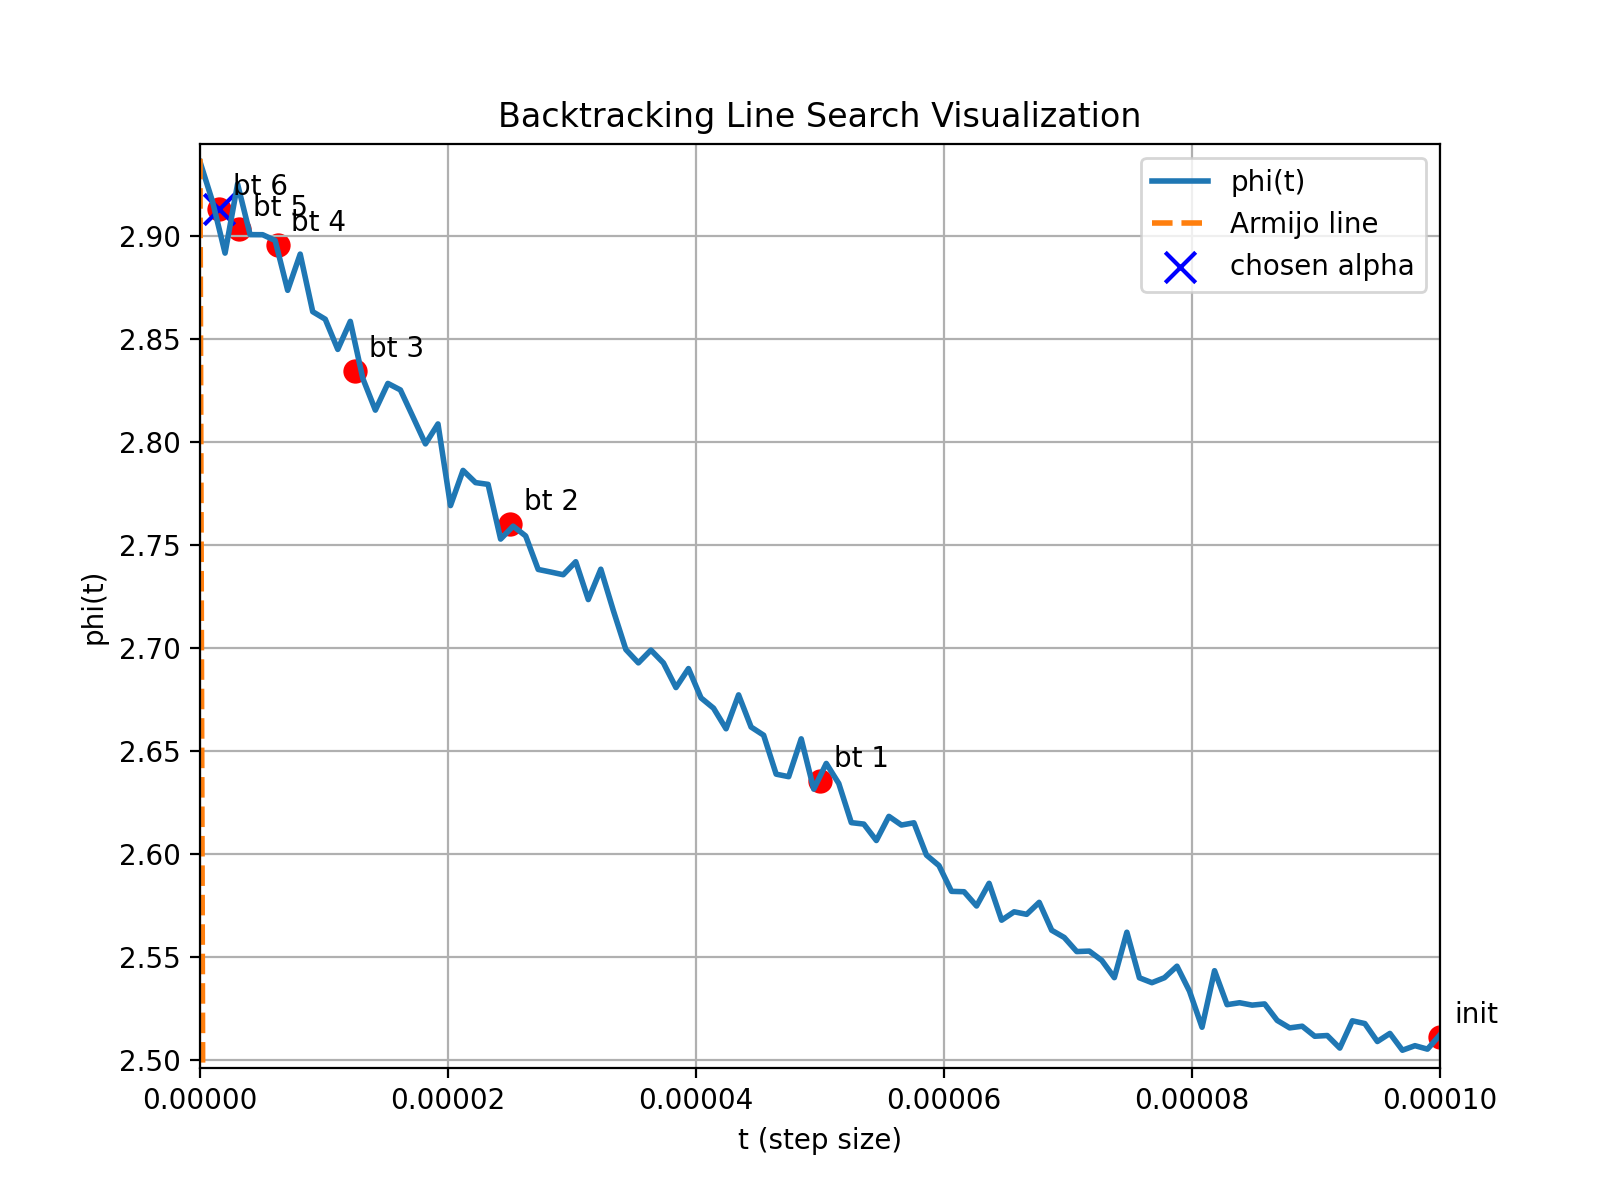
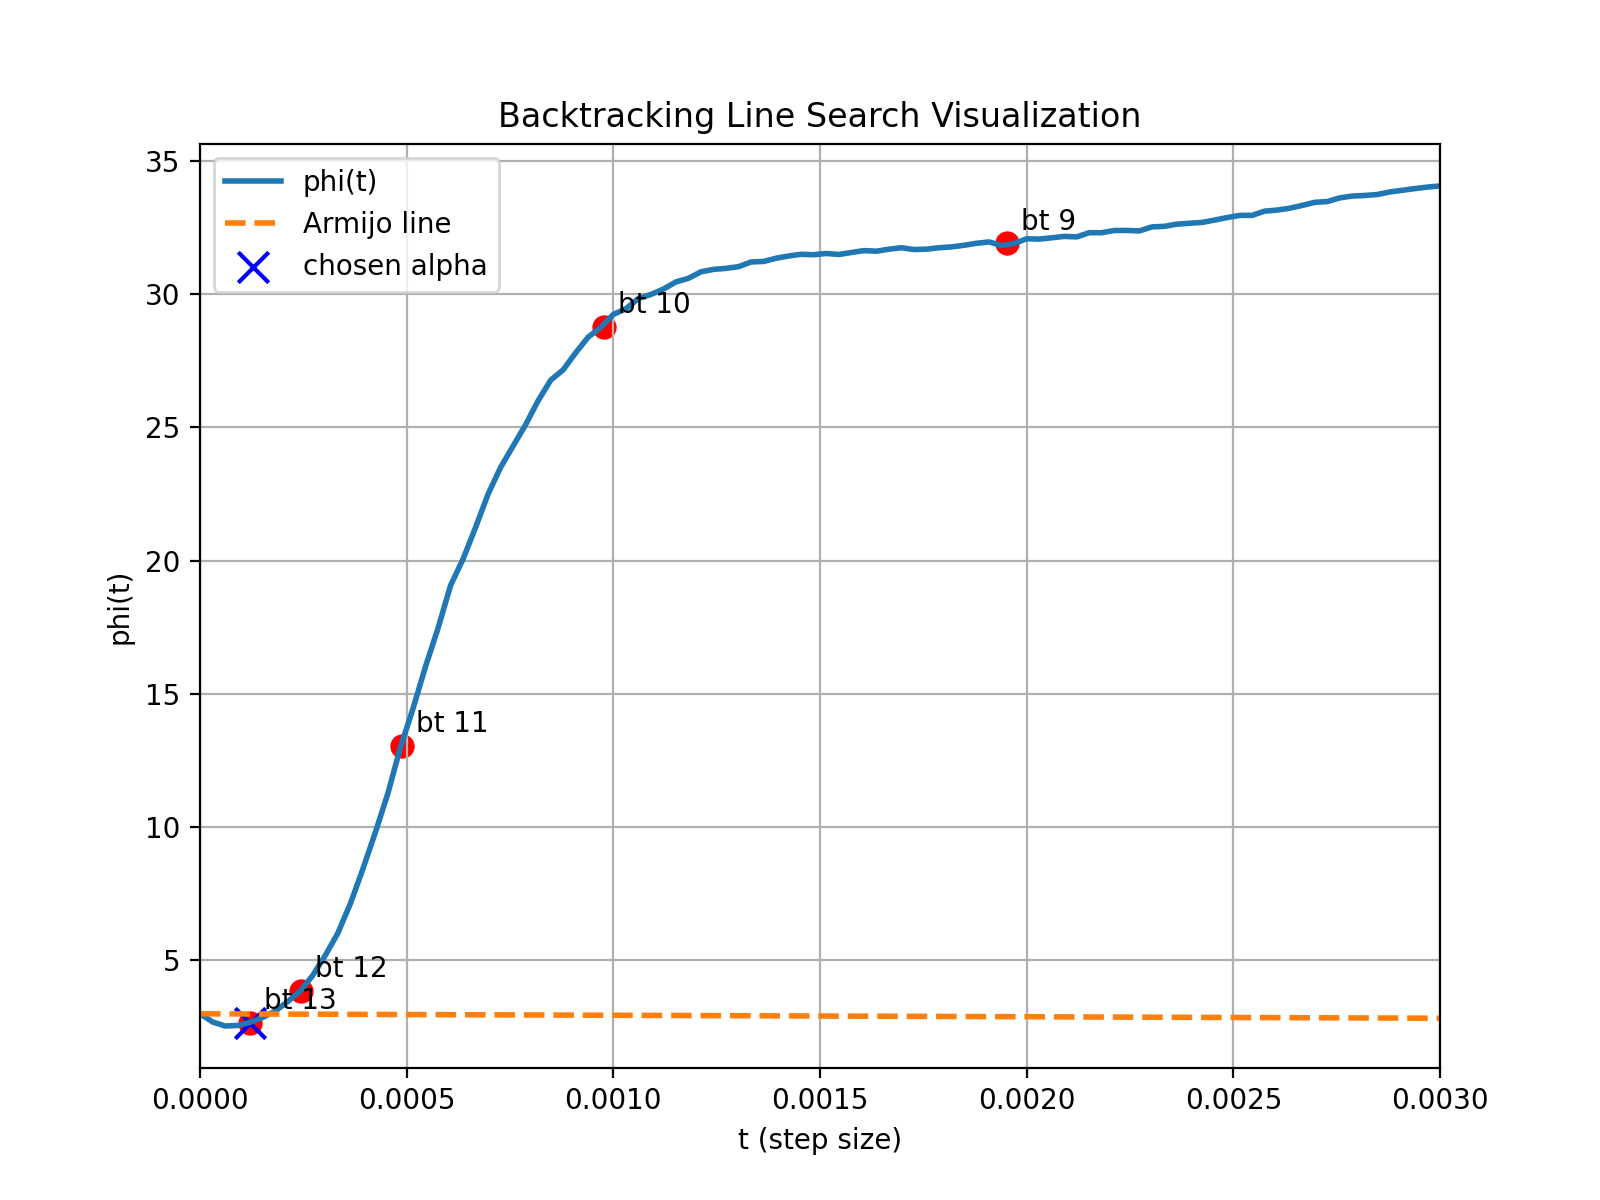
gradient clip added

diff --git a/lr_sched.py b/lr_sched.py
@@ -146,6 +146,7 @@ class LineSearchScheduler():
                 m_hat = m_new / (1 - beta1 ** t)
                 v_hat = v_new / (1 - beta2 ** t)
 
+
                 return -m_hat / (v_hat.sqrt() + eps) 
             else:
                     # gf = g.flatten()
@@ -362,21 +363,84 @@ class LineSearchScheduler():
                 param_group['lr'] = lr 
             return
 
-
         self.optimizer.zero_grad(set_to_none=True)
+
         loss = closure(require_grad=True)
+
         self.rule = self.get_potential_update_direction()
 
         inner = 0.0
+
+        # ===== 统计量 =====
+        grad_sq = 0.0
+        dir_sq = 0.0
+        param_sq = 0.0
+        dot_gd = 0.0
+        dot_gp = 0.0
+
+        max_grad = 0.0
+        max_dir = 0.0
+
         with torch.no_grad():
             for group in self.optimizer.param_groups:
-                    wd = group.get("weight_decay", 0.0)
-                    for p in group["params"]:
-                        if p.grad is None:
-                            continue     
-                        inner += torch.sum(p.grad * self.rule(p))
-                        inner -= wd * torch.sum(p.grad * p)
-        phi0, derphi0 = loss, inner.detach()
+                wd = group.get("weight_decay", 0.0)
+
+                for p in group["params"]:
+                    if p.grad is None:
+                        continue
+
+                    g = p.grad
+                    d = self.rule(p)
+
+                    # ===== norm 统计 =====
+                    grad_sq += torch.sum(g * g).item()
+                    dir_sq += torch.sum(d * d).item()
+                    param_sq += torch.sum(p * p).item()
+
+                    # ===== dot product =====
+                    gd = torch.sum(g * d).item()
+                    gp = torch.sum(g * p).item()
+
+                    dot_gd += gd
+                    dot_gp += gp
+
+                    # ===== max element =====
+                    max_grad = max(max_grad, g.abs().max().item())
+                    max_dir = max(max_dir, d.abs().max().item())
+
+        # ===== 最终统计 =====
+        grad_norm = grad_sq ** 0.5
+        dir_norm = dir_sq ** 0.5
+        param_norm = param_sq ** 0.5
+
+        # cosine 相似度
+        cos_gd = dot_gd / (grad_norm * dir_norm + 1e-12)
+
+        # 原始 derphi0（含 weight decay）
+        inner = dot_gd - wd * dot_gp
+
+        phi0, derphi0 = loss, inner
+
+        # ===== 打印 =====
+        print("\n========== Line Search Debug ==========")
+        print(f"loss (phi0): {phi0}")
+        print(f"derphi0: {derphi0}")
+
+        print("\n--- Norms ---")
+        print(f"grad_norm: {grad_norm:.6f}")
+        print(f"dir_norm:  {dir_norm:.6f}")
+        print(f"param_norm:{param_norm:.6f}")
+
+        print("\n--- Dot Products ---")
+        print(f"g·d: {dot_gd:.6f}")
+        print(f"g·p: {dot_gp:.6f}")
+        print(f"cos(g,d): {cos_gd:.6f}")
+
+        print("\n--- Max Values ---")
+        print(f"max|grad|: {max_grad:.6f}")
+        print(f"max|dir|:  {max_dir:.6f}")
+
+        print("======================================\n")
         # loss_sum = 0
 
         # for _ in range(self.K):
@@ -457,7 +521,7 @@ class LineSearchScheduler():
         # print(f"start searching with alpha = {alpha0}, the prev_alpha is {self.prev_alpha}")
 
         if step <= warmup_length:
-            alpha0 = 1e-4
+            alpha0 = 1
             num_search = self.num_search
         else:
             num_search = 1
@@ -553,10 +617,10 @@ def line_search_armijo(f, derphi0, phi0, args=(), c1=1e-4, alpha0=1, num_search=
             # alpha, phi1 = search_bisection_ddp_visual(phi, phi0, derphi0, c1=c1,
             #                                   old_alpha=alpha0, shrink=factor, grow=1/factor, amax=1, amin=1e-6, num_search=num_search, log_dir=log_dir, global_step=step)
     else:
-            # alpha, phi1 = search_bisection(phi, phi0, derphi0, c1=c1,
-            #                                 old_alpha=alpha0, grow=1/factor, shrink=factor, amax=1, amin=1e-6, num_search=num_search)
-            alpha, phi1 = search_bisection_visual(phi, phi0, derphi0, c1=c1,
-                                                          old_alpha=alpha0, shrink=factor, grow=1/factor, amax=1, amin=1e-6, num_search=num_search, log_dir=log_dir, global_step=step)
+            alpha, phi1 = search_bisection(phi, phi0, derphi0, c1=c1,
+                                            old_alpha=alpha0, grow=1/factor, shrink=factor, amax=1, amin=1e-6, num_search=num_search)
+            # alpha, phi1 = search_bisection_visual(phi, phi0, derphi0, c1=c1,
+            #                                               old_alpha=alpha0, shrink=factor, grow=1/factor, amax=1, amin=1e-6, num_search=num_search, log_dir=log_dir, global_step=step)
     
     
     # if search_mode == "backtrack":
@@ -903,7 +967,7 @@ def search_bisection_ddp_visual(phi, phi0, derphi0, c1,
 def search_bisection_visual(phi, phi0, derphi0, c1,
                      old_alpha, grow=2.0, shrink=0.5,
                      amax=1, amin=1e-6, num_search=10,
-                    t_min=0.0, t_max=1e-4, num_points=100, log_dir=None, global_step=0):
+                    t_min=0.0, t_max=3e-3, num_points=100, log_dir=None, global_step=0):
     """Non-DDP visual version of bisection/backtracking search.
 
     Mirrors `search_bisection_ddp_visual` but without torch.distributed calls.

diff --git a/finetune_gpt_2_GSM_linesearch.py b/finetune_gpt_2_GSM_linesearch.py
@@ -17,7 +17,7 @@ from torch.optim import AdamW
 
 from datasets import load_dataset
 from transformers import AutoTokenizer, AutoModelForCausalLM, get_cosine_schedule_with_warmup
-from lr_sched_smooth import LineSearchScheduler
+from lr_sched import LineSearchScheduler
 
 def parse_args():
     p = argparse.ArgumentParser()
@@ -75,19 +75,17 @@ def collate_fn(batch, pad_token_id):
     return {'input_ids': input_ids, 'attention_mask': attention_mask, 'labels': labels}
 
 
-def evaluate(model, dataloader, device, amp=False):
+def evaluate(model, dataloader, device):
     model.eval()
     total_loss = 0.0
     total_tokens = 0
-    ctx = torch.cuda.amp.autocast if amp else nullcontext
     with torch.no_grad():
         for batch in dataloader:
             input_ids = batch['input_ids'].to(device)
             attention_mask = batch['attention_mask'].to(device)
             labels = batch['labels'].to(device)
-            with ctx():
-                outputs = model(input_ids=input_ids, attention_mask=attention_mask, labels=labels)
-                loss = outputs.loss
+            outputs = model(input_ids=input_ids, attention_mask=attention_mask, labels=labels)
+            loss = outputs.loss
             bsz = input_ids.size(0)
             total_loss += loss.item() * bsz
             total_tokens += bsz
@@ -95,7 +93,7 @@ def evaluate(model, dataloader, device, amp=False):
     return total_loss / max(1, total_tokens)
 
 
-from contextlib import nullcontext
+
 
 
 
@@ -146,7 +144,8 @@ def main():
 
     num_update_steps_per_epoch = math.ceil(len(train_loader) / args.gradient_accumulation_steps)
     max_train_steps = args.max_iters
-    num_warmup_steps = int(0.03 * max_train_steps)
+    # num_warmup_steps = int(0.03 * max_train_steps)
+    num_warmup_steps = 1000
     scheduler = LineSearchScheduler(optimizer=optimizer, 
                                 model_paras=model.parameters(), 
                                 num_search=16, start_lr=0, 
@@ -154,7 +153,7 @@ def main():
                                 injection=True, 
                                 search_mode="bisection", 
                                 warmup_length=num_warmup_steps)
-    linesearch_interval = 100
+    linesearch_interval = 1000
     accum_steps = 32
     c1 = 0.03
     ls_iter = iter(ls_train_loader)
@@ -165,7 +164,8 @@ def main():
 
     # training state
     global_step = 0
-    scaler = torch.cuda.amp.GradScaler()
+    # AMP removed: use standard FP training
+    scaler = None
     model.train()
     line_search_closure = None
 
@@ -183,9 +183,9 @@ def main():
         labels = batch['labels'].to(device)
 
         # ===== 2. line search =====
-        print(global_step - 30, ((global_step - 30) % linesearch_interval))
-        if ((global_step - 30) % linesearch_interval == 0) or (
-            global_step <= num_warmup_steps and ((global_step - 30) % num_warmup_steps == 0)
+       
+        if ((global_step) % linesearch_interval == 0) or (
+            global_step <= num_warmup_steps and ((global_step) % num_warmup_steps == 0)
         ):
             print(f"[step {global_step}] LINESEARCH")
 
@@ -204,6 +204,8 @@ def main():
                 fixed_batches.append((x, m, y))
 
             def line_search_closure(require_grad=False):
+                if require_grad:
+                    optimizer.zero_grad()
                 total_loss = torch.zeros((), device=device)
 
                 for x_ls, m_ls, y_ls in fixed_batches:
@@ -216,7 +218,11 @@ def main():
                     total_loss += loss
 
                     if require_grad:
-                        scaler.scale(loss / accum_steps).backward()
+                        (loss / accum_steps).backward()
+
+                # If gradients were produced for the closure, clip them
+                if require_grad:
+                    torch.nn.utils.clip_grad_norm_(model.parameters(), 1.0)
 
                 return (total_loss / accum_steps).item()
 
@@ -224,30 +230,26 @@ def main():
         scheduler.step(
             line_search_closure,
             c1=c1,
-            step=global_step - 30,
+            step=global_step,
             interval=linesearch_interval,
             condition="armijo",
             warmup_length=num_warmup_steps,
         )
 
         # ===== 4. forward + backward =====
-        with torch.cuda.amp.autocast():
-            outputs = model(
-                input_ids=input_ids,
-                attention_mask=attention_mask,
-                labels=labels,
-            )
-            loss = outputs.loss
+        outputs = model(
+            input_ids=input_ids,
+            attention_mask=attention_mask,
+            labels=labels,
+        )
+        loss = outputs.loss
 
         loss_val = loss.item()
-        scaler.scale(loss).backward()
+        loss.backward()
 
         # ===== 5. optimizer step =====
-        scaler.unscale_(optimizer)
         torch.nn.utils.clip_grad_norm_(model.parameters(), 1.0)
-
-        scaler.step(optimizer)
-        scaler.update()
+        optimizer.step()
         optimizer.zero_grad()
 
         global_step += 1

diff --git a/lr_sched_smooth.py b/lr_sched_smooth.py
@@ -97,7 +97,6 @@ class LineSearchScheduler():
                     return -g
                 else:
                     return torch.zeros_like(p)
-
         return rule
 
     def get_potential_adam_update_direction(self, fallback_to_neg_grad=False):
